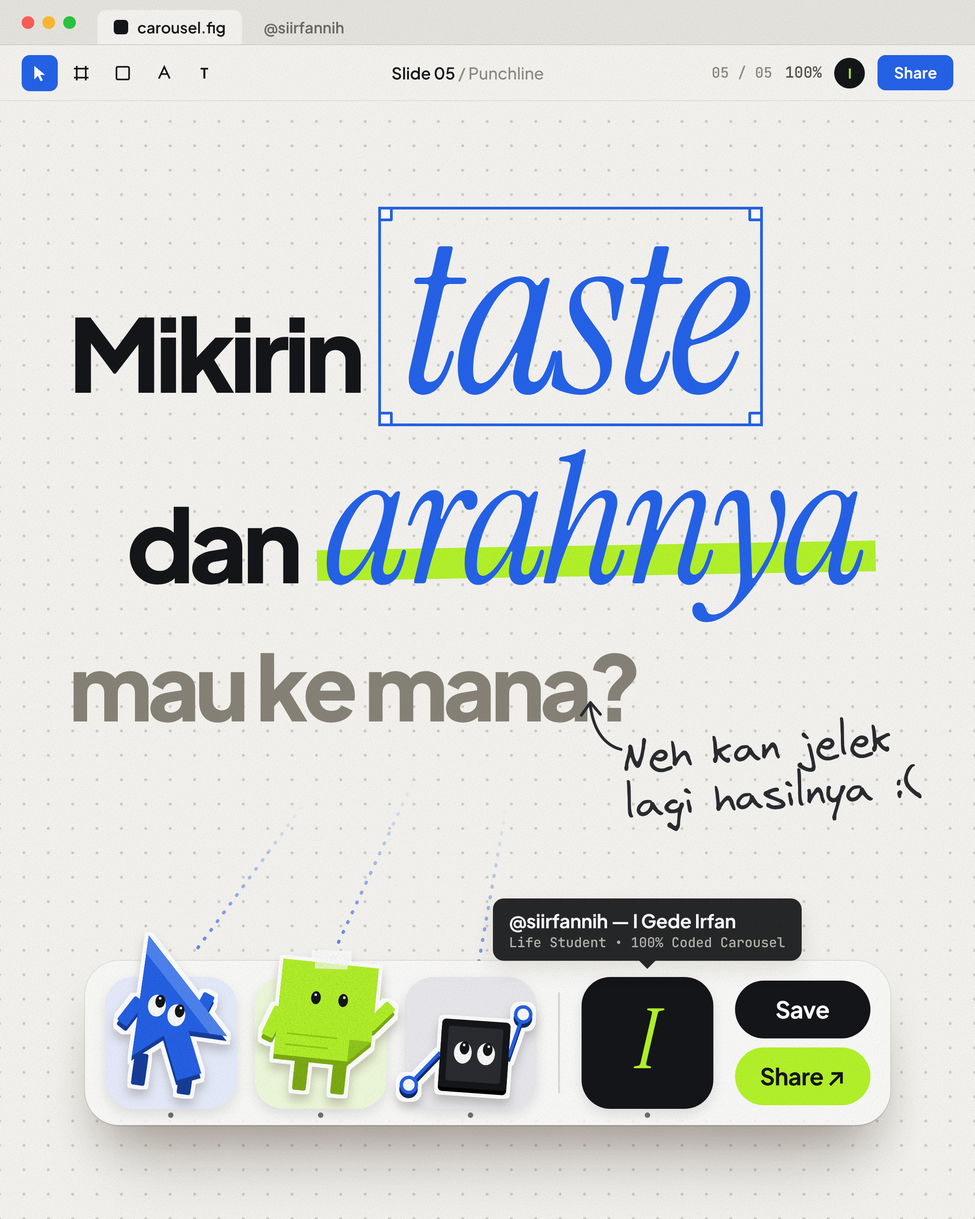
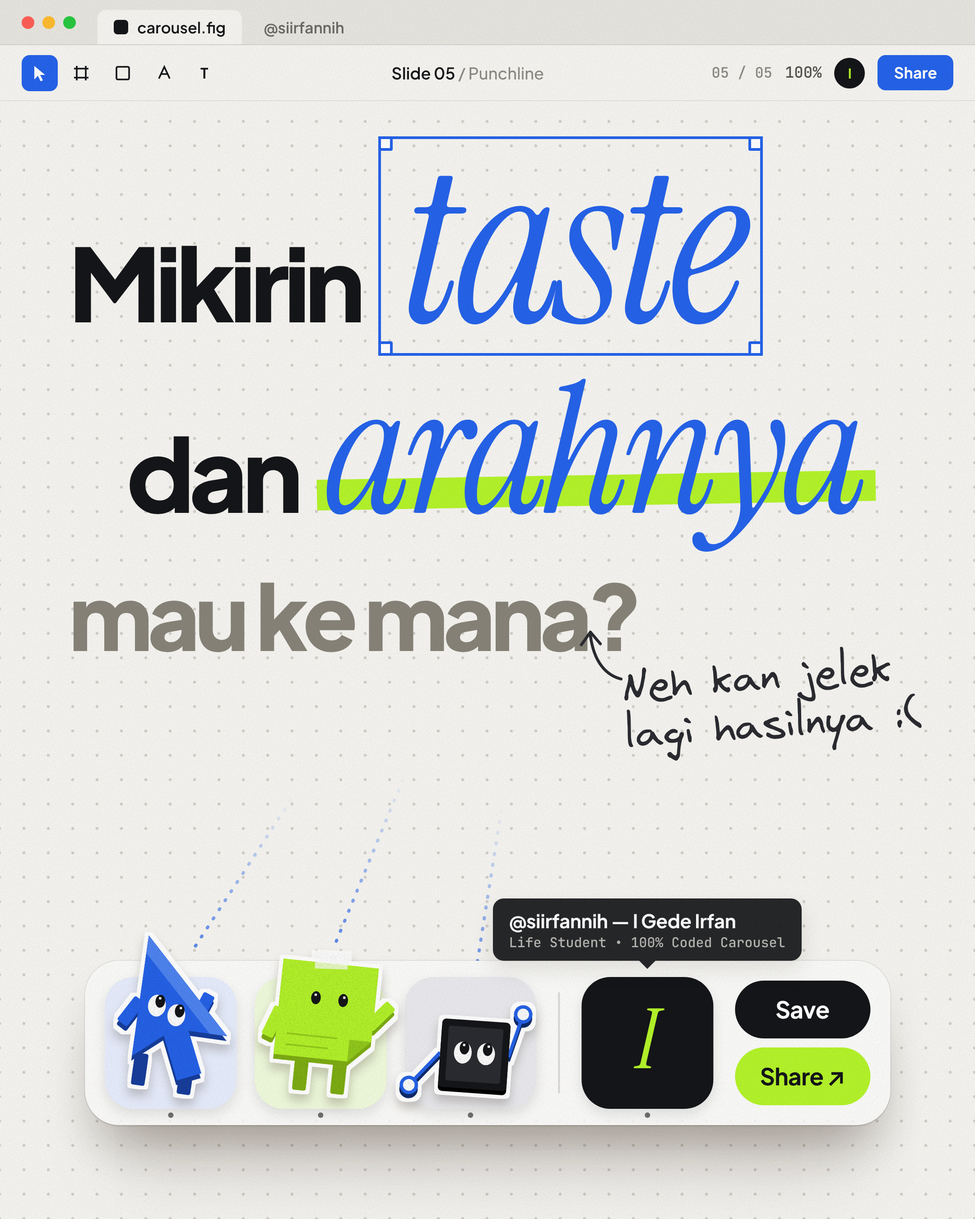
Vibedesign: slide 5 konten mulai di y 160, seimbang dengan slide 3-4
DECISIONS D-033 diperbarui: margin atas konten seragam di semua slide ber-header.

Agent: Claude

Claude-Session: https://claude.ai/code/session_01QPNycYFuNNNB3fYh84pWSi

diff --git a/projects/vibedesign-meta-carousel/slides/slide-05.html b/projects/vibedesign-meta-carousel/slides/slide-05.html
@@ -1,6 +1,6 @@
 <style>
 /* ===== SLIDE 5 — Editorial Punchline + macOS Dock ===== */
-#slide-5 .hl{left:76px;top:238px;width:940px;z-index:20}
+#slide-5 .hl{left:76px;top:160px;width:940px;z-index:20}
 #slide-5 .ln{display:flex;align-items:baseline;gap:30px;white-space:nowrap}
 #slide-5 .w{font:800 112px/1 var(--sans);letter-spacing:-.055em}
 #slide-5 .big{font-family:var(--serif);font-style:italic;font-weight:400;color:var(--blue);letter-spacing:-.03em;line-height:.9}
@@ -42,9 +42,9 @@
 #slide-5 .tip small{display:block;margin-top:4px;font:500 15px/1 var(--mono);color:#B7B6B1;letter-spacing:0}
 #slide-5 .tip::after{content:"";position:absolute;left:50%;bottom:-9px;margin-left:-9px;border-left:9px solid transparent;border-right:9px solid transparent;border-top:9px solid rgba(20,21,24,.92)}
 /* catatan tulisan tangan (gaya coretan Excalidraw): komentar jujur atas hasil desain */
-#slide-5 .hand{left:690px;top:814px;z-index:25;transform:rotate(-4deg);transform-origin:left center;
+#slide-5 .hand{left:690px;top:736px;z-index:25;transform:rotate(-4deg);transform-origin:left center;
   font:400 46px/1.15 var(--hand);color:#2A2B30;letter-spacing:.2px;white-space:nowrap}
-#slide-5 .hand-arrow{left:628px;top:768px;width:80px;height:70px;z-index:25;overflow:visible}
+#slide-5 .hand-arrow{left:628px;top:690px;width:80px;height:70px;z-index:25;overflow:visible}
 </style>
 
 <section class="slide bg-dots" id="slide-5">

diff --git a/projects/vibedesign-meta-carousel/DECISIONS.md b/projects/vibedesign-meta-carousel/DECISIONS.md
@@ -36,4 +36,4 @@ Ledger koreksiku untuk carousel ini saja. Revisi yang mengubah slide menunjuk ID
 | D-030 | 24 Nov | Finishing slide 4: jendela chat dan pesan utama berbagi tepi kiri yang sama; teks chat ≥ 24px; pesan utama 136px; kartu slop diperbesar; KLIK berpijak di dasar kartu. | 4 | Aktif (ronde 6) |
 | D-031 | 24 Nov | Finishing slide 5 tanpa mengubah tipografi yang disetujui: whitespace mati antara headline dan dock dipersempit (dock naik dan diperbesar, garis pandang lebih pendek), "mau ke mana?" digelapkan ke #888479 agar kontras ≥ 3:1. | 5 | Aktif (ronde 6) |
 | D-032 | 24 Nov | Slide 5 diberi catatan tulisan tangan gaya Excalidraw (font Virgil, OFL) "Neh kan jelek / lagi hasilnya :(" dengan panah coretan ke tanda "?" — komentar jujur bahwa tampilan AI-slop ini memang hasil tanpa arah. Dibaca setelah headline. | 5 | Aktif (ronde 6) |
-| D-033 | 24 Nov | Blok headline slide 5 (Mikirin taste … mau ke mana?) dinaikkan 54 px (2 langkah grid titik) beserta catatan tangan, agar ruang di atas tidak terlalu kosong dan jarak ke dock lebih lega. | 5 | Aktif (ronde 7) |
+| D-033 | 24 Nov | Blok headline slide 5 (Mikirin taste … mau ke mana?) dinaikkan beserta catatan tangan sampai konten mulai di y 160, sama dengan slide 4 (patokan keseimbangan slide 3–4): ruang atas tidak kosong, jarak ke dock lebih lega. Margin atas konten seragam di semua slide ber-header. | 5 | Aktif (ronde 7) |
